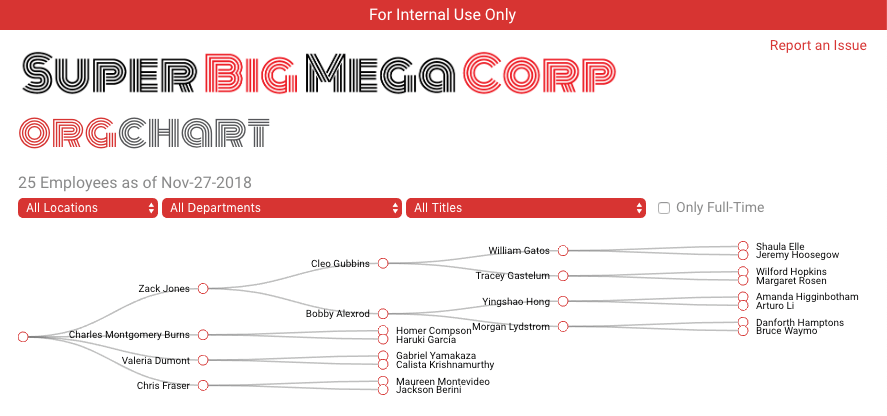
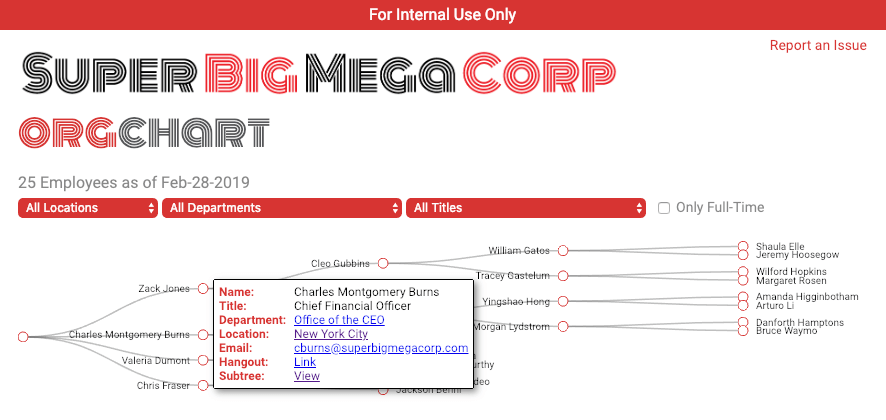
fix for ordered location dropdown; updated screenshot to display hover-over

diff --git a/src/main/java/com/shutterstock/oss/opentree/repository/EmployeeRepository.java b/src/main/java/com/shutterstock/oss/opentree/repository/EmployeeRepository.java
@@ -17,7 +17,7 @@ public interface EmployeeRepository extends JpaRepository<Employee, String> {
     @Query("SELECT COUNT(e) FROM Employee e WHERE e.active = TRUE")
     long countActiveEmployees();
 
-    @Query("SELECT DISTINCT location FROM Employee WHERE location NOT LIKE '%REMOTE%' AND active = TRUE")
+    @Query("SELECT DISTINCT location FROM Employee WHERE location NOT LIKE '%REMOTE%' AND active = TRUE ORDER BY location")
     List<String> findDistinctLocations();
 
     @Query("SELECT DISTINCT title FROM Employee WHERE active = TRUE ORDER BY title")
